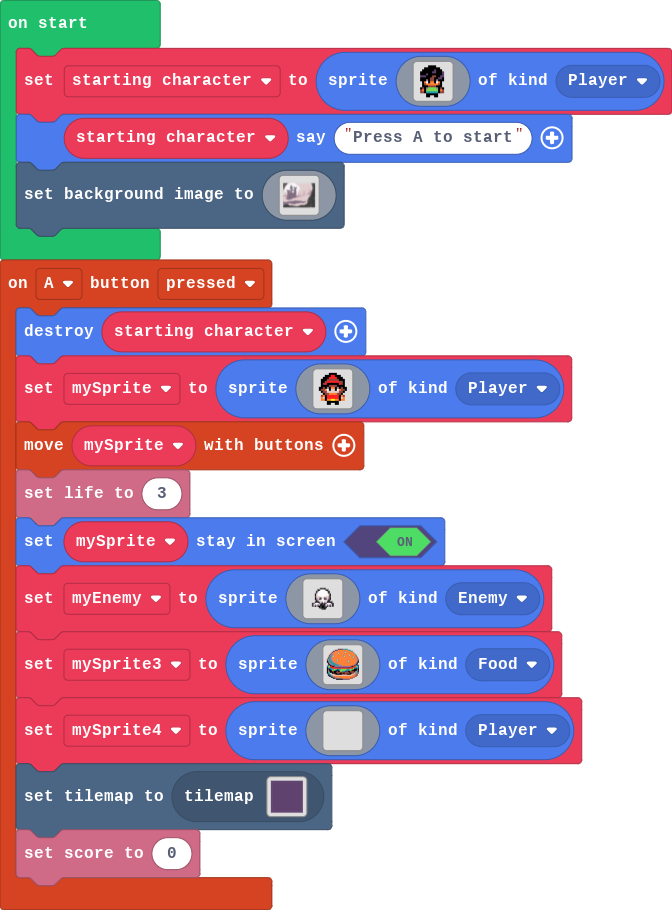
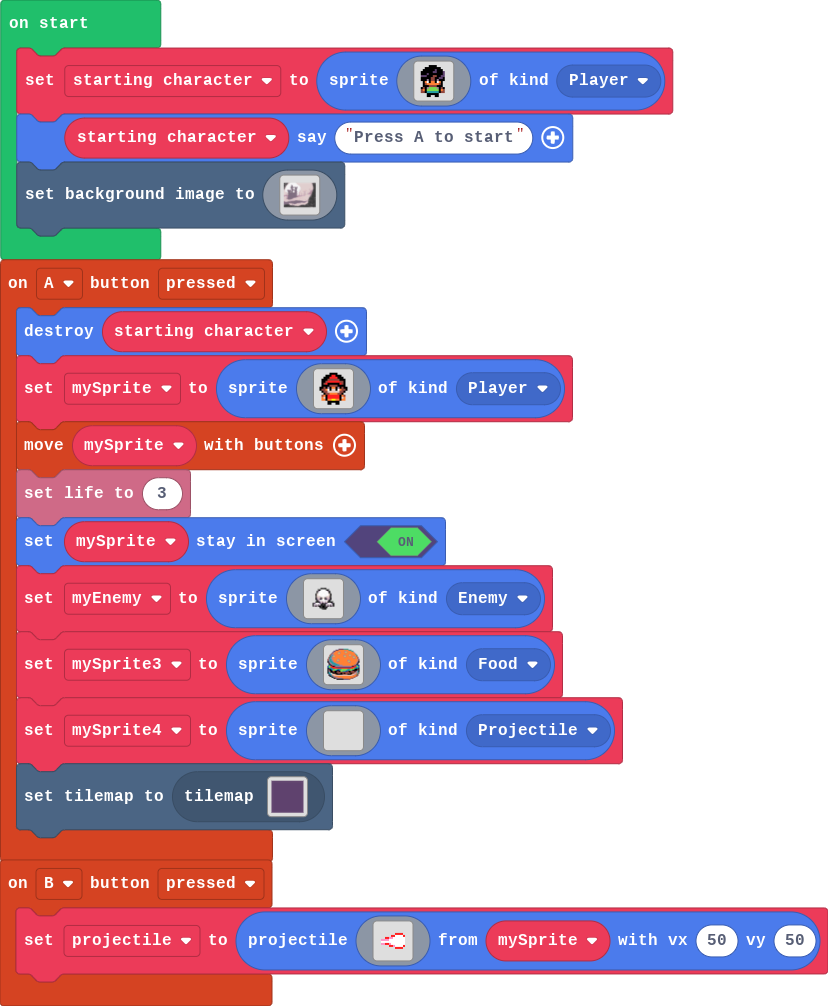
Update main.blocks, main.ts

diff --git a/main.ts b/main.ts
@@ -1,3 +1,23 @@
+controller.B.onEvent(ControllerButtonEvent.Pressed, function () {
+    projectile = sprites.createProjectileFromSprite(img`
+        . . . . . . . . . . . . . . . . 
+        . . . . . . . . . . . . . . . . 
+        . . . . . . . . . . . . . . . . 
+        . . . . . . . . . . . . . . . . 
+        . . . . . . . . . 2 2 2 2 . . . 
+        . . . . . . . 2 2 1 1 1 1 2 . . 
+        . . . . 2 2 3 3 1 1 1 1 1 1 . . 
+        . . 3 3 3 3 1 1 1 1 1 1 1 1 . . 
+        . . 1 1 1 1 1 1 1 1 1 1 1 1 . . 
+        . . 3 3 2 2 3 1 1 1 1 1 1 1 . . 
+        . . . . . . 2 2 3 1 1 1 1 2 . . 
+        . . . . . . . . . 2 2 2 2 . . . 
+        . . . . . . . . . . . . . . . . 
+        . . . . . . . . . . . . . . . . 
+        . . . . . . . . . . . . . . . . 
+        . . . . . . . . . . . . . . . . 
+        `, mySprite, 50, 50)
+})
 controller.A.onEvent(ControllerButtonEvent.Pressed, function () {
     sprites.destroy(starting_character)
     mySprite = sprites.create(img`
@@ -98,14 +118,14 @@ controller.A.onEvent(ControllerButtonEvent.Pressed, function () {
         . . . . . . . . . . . . . . . . 
         . . . . . . . . . . . . . . . . 
         . . . . . . . . . . . . . . . . 
-        `, SpriteKind.Player)
+        `, SpriteKind.Projectile)
     tiles.setCurrentTilemap(tilemap`level1`)
-    info.setScore(0)
 })
 let mySprite4: Sprite = null
 let mySprite3: Sprite = null
 let myEnemy: Sprite = null
 let mySprite: Sprite = null
+let projectile: Sprite = null
 let starting_character: Sprite = null
 starting_character = sprites.create(img`
     . . . . f f f f . . . . . 
